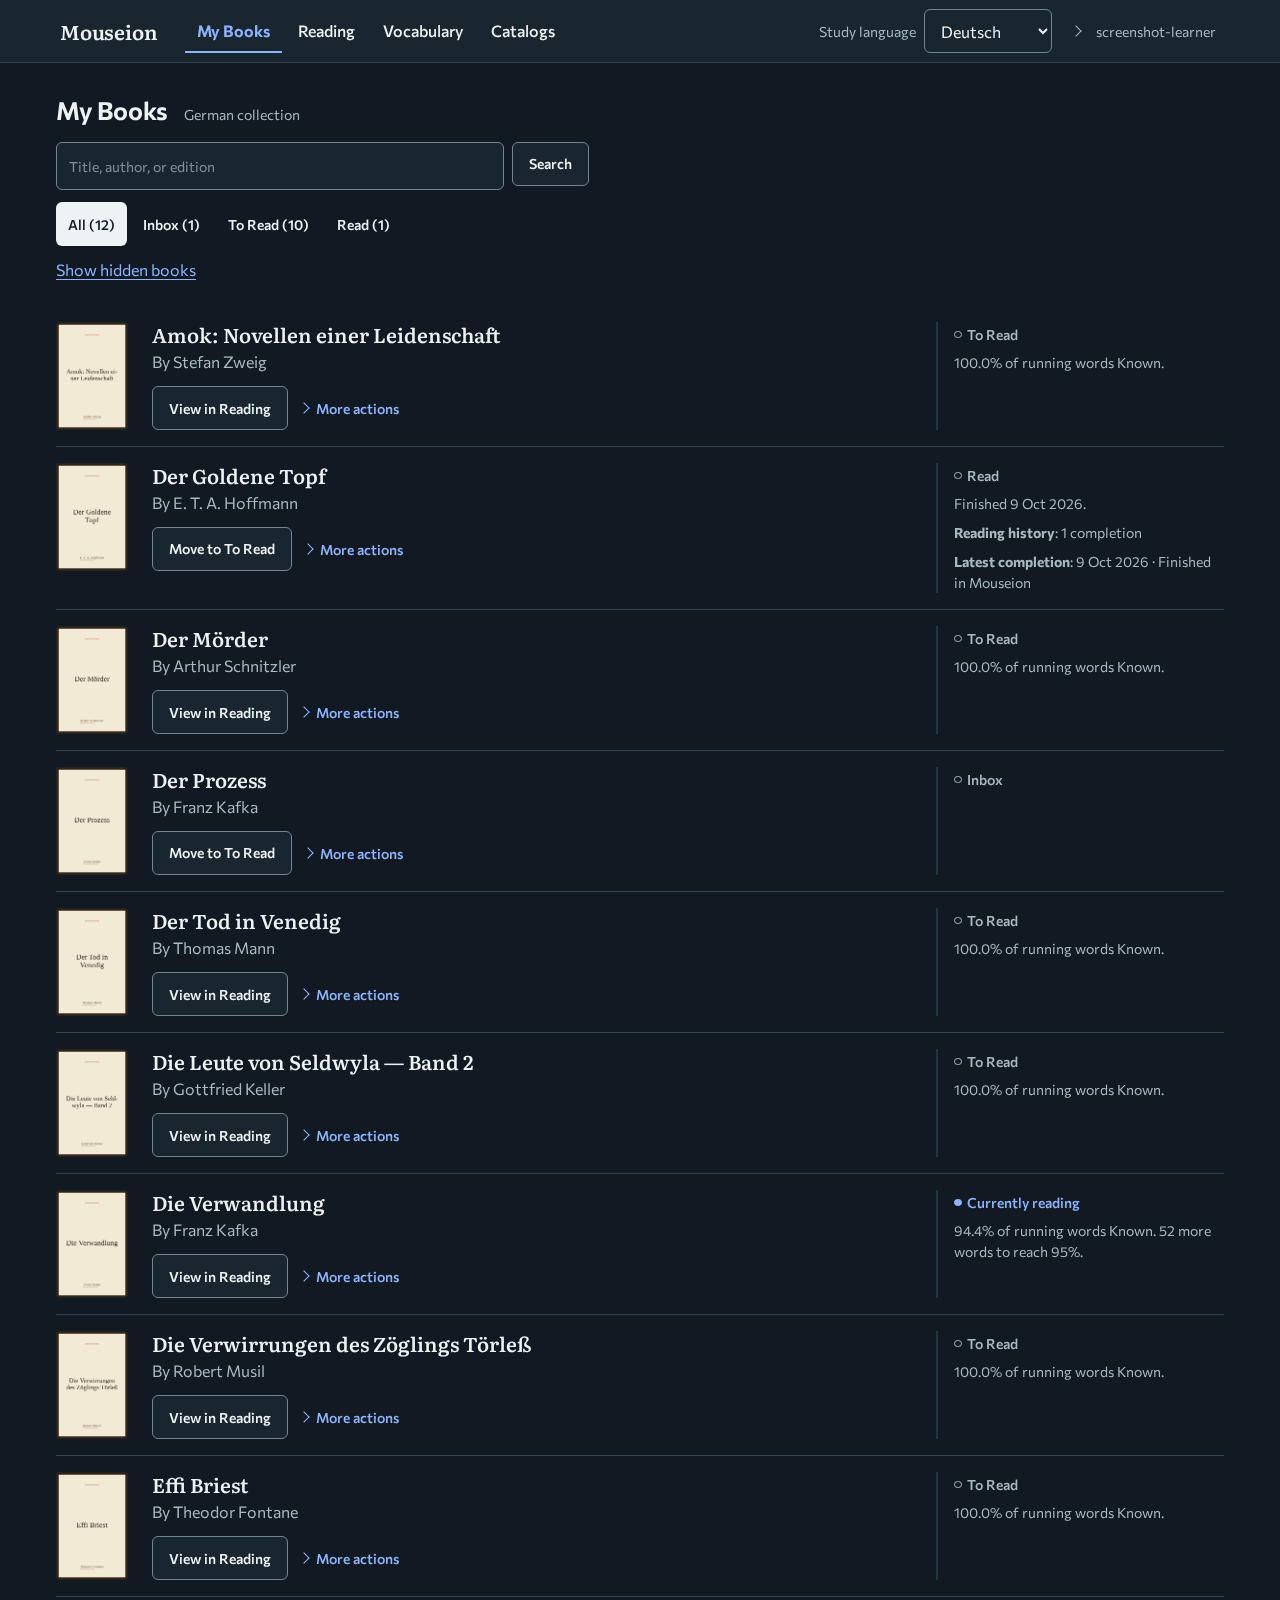
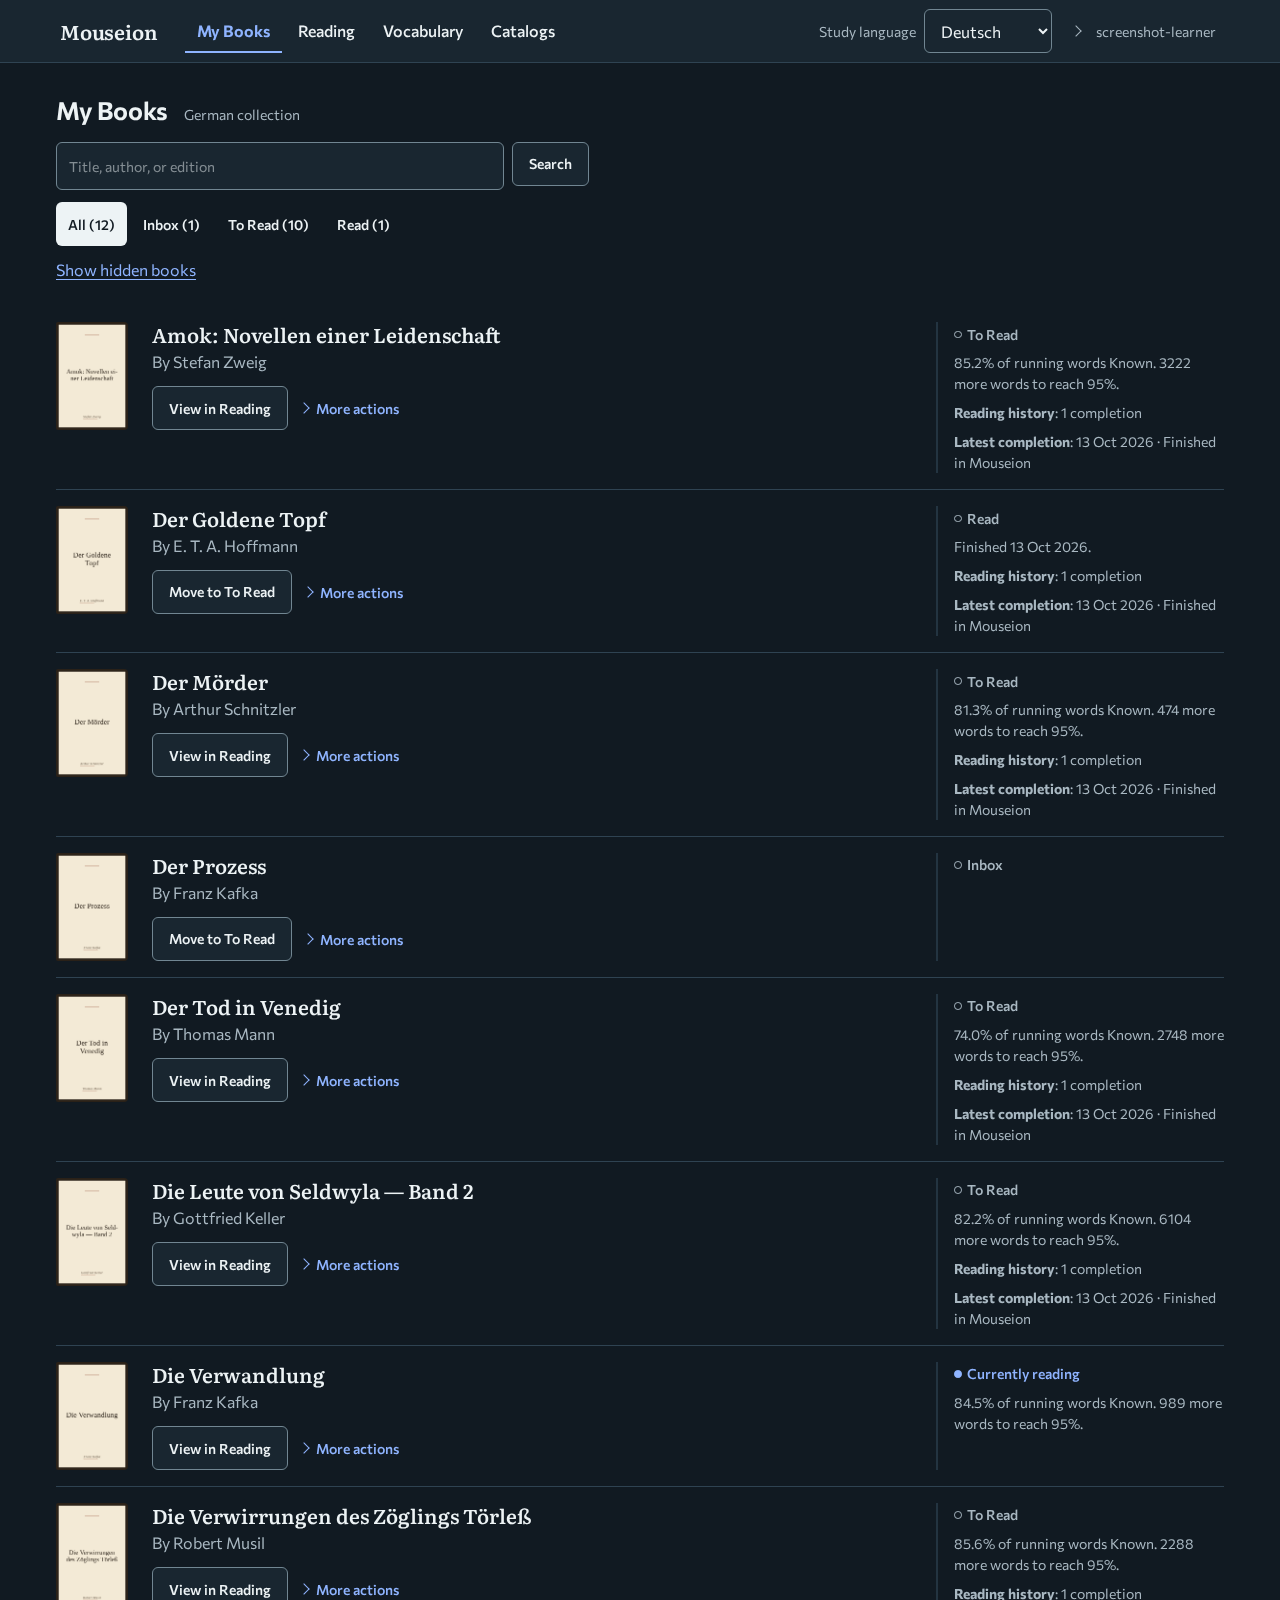
feat(e2e): seed the screenshot Known-vocabulary baseline by finishing readings (#2008)
Known vocabulary now comes only from Reading completion (ADR 0092). The
screenshot workflow no longer derives a lemma list from the stack database and
uploads it through /vocabulary/import; it finishes a reading of every baseline
Book instead, returning each finished To Read Book to To Read with Read again.
Known identities from completion are exact, so the target's coverage band is
retuned from the retired lemma-wide import's 94-98% to the measured 82-88%.

diff --git a/e2e/screenshot/my-books.spec.ts b/e2e/screenshot/my-books.spec.ts
@@ -1,14 +1,14 @@
 // Learner workflow for the documentation screenshots. It creates the first
 // account, adds the static catalog, waits for catalog sync and covers, moves the
-// scenario Books to To Read and waits for each analysis, imports a Known
-// vocabulary baseline derived from the other Books (known-vocabulary.ts), reads
-// one Book to completion, starts the target Book, and then captures the Reading
-// view and My Books in light and dark schemes, then looks up the configured
-// lemma and captures the Concordance and one sentence Study. Every input comes from the environment set by run.mjs, and
-// every wait is bounded and reports the Book or step that stalled.
+// scenario Books to To Read and waits for each analysis, seeds the Known
+// vocabulary baseline by finishing a reading of every baseline Book (ADR 0092's
+// only source of Known vocabulary), starts the target Book, and then captures
+// the Reading view and My Books in light and dark schemes, then looks up the
+// configured lemma and captures the Concordance and one sentence Study. Every
+// input comes from the environment set by run.mjs, and every wait is bounded and
+// reports the Book or step that stalled.
 import { expect, test, type Page } from '@playwright/test';
 import { readFileSync } from 'node:fs';
-import { COVERAGE_MAX_PERCENT, COVERAGE_MIN_PERCENT, deriveBaseline, type Baseline } from './known-vocabulary';
 
 type Journey = 'inbox' | 'to-read' | 'read' | 'current';
 
@@ -41,13 +41,22 @@ const myBooksDarkOutputPath = requiredEnv('MOUSEION_SCREENSHOT_DARK_OUTPUT');
 const readingOutputPath = requiredEnv('MOUSEION_SCREENSHOT_READING_OUTPUT');
 const concordanceOutputPath = requiredEnv('MOUSEION_SCREENSHOT_CONCORDANCE_OUTPUT');
 const studyOutputPath = requiredEnv('MOUSEION_SCREENSHOT_STUDY_OUTPUT');
-// The docker compose arguments that address the isolated stack, as a JSON array.
-const composeArgs = JSON.parse(requiredEnv('MOUSEION_SCREENSHOT_COMPOSE_ARGS')) as string[];
 const manifest = JSON.parse(readFileSync(requiredEnv('MOUSEION_SCREENSHOT_MANIFEST'), 'utf8')) as {
   books: ManifestBook[];
   concordance: ManifestConcordance;
 };
 const { concordance } = manifest;
+
+// Known vocabulary comes only from Reading completion (ADR 0092). The scenario
+// finishes every baseline Book (every analyzed Book except the target) and
+// returns the finished To Read Books to To Read with Read again. Known
+// identities from completion are exact (canonical lemma plus analyzed part of
+// speech), unlike the retired lemma-wide import, so the pinned corpus covers
+// about 84.5% of the target's running content words (deterministic: the books
+// and the Stanza analysis are pinned). The band is a regression guard around
+// that value; it no longer assumes the 94–98% the lemma-wide import produced.
+const COVERAGE_MIN_PERCENT = 82;
+const COVERAGE_MAX_PERCENT = 88;
 
 const SYNC_TIMEOUT_MS = 5 * 60_000;
 const COVER_TIMEOUT_MS = 6 * 60_000;
@@ -55,7 +64,6 @@ const COVER_TIMEOUT_MS = 6 * 60_000;
 // in parallel, so this bounds the whole To Read analysis set.
 const ANALYSIS_TIMEOUT_MS = 30 * 60_000;
 const COUNTS_TIMEOUT_MS = 5 * 60_000;
-const IMPORT_TIMEOUT_MS = 5 * 60_000;
 const MOVE_TIMEOUT_MS = 60_000;
 const POLL_INTERVAL_MS = 5_000;
 const MAX_SCREENSHOT_HEIGHT = 1600;
@@ -214,22 +222,6 @@ async function waitForAnalyses(page: Page, books: ManifestBook[]): Promise<void>
   expect(stalled, 'To Read scenario books whose analysis did not complete').toEqual([]);
 }
 
-// Imports the lemma list through the vocabulary interface and waits for the
-// River job to report its result on the page.
-async function importKnownVocabulary(page: Page, text: string): Promise<void> {
-  await page.goto('/vocabulary/import');
-  await page.locator('#known-vocabulary-file').setInputFiles({
-    name: 'known-vocabulary.txt',
-    mimeType: 'text/plain',
-    buffer: Buffer.from(text, 'utf8'),
-  });
-  await page.getByRole('button', { name: 'Import known vocabulary' }).click();
-  await expect(page.locator('#vocabulary-results'), 'the Known-vocabulary import completes').toContainText(
-    /Import complete\.|partial rejection/,
-    { timeout: IMPORT_TIMEOUT_MS },
-  );
-}
-
 // The chooser shows each To Read Book's Known coverage. The Current reading is
 // measured here, before it is started, because the app stops showing coverage
 // for the Book once it is the Current reading.
@@ -253,15 +245,44 @@ async function measureCoverage(page: Page, book: ManifestBook): Promise<number> 
   return percent;
 }
 
-// Derives the baseline from the other analyzed Books, imports it, and fails the
-// run unless the target's measured coverage is inside the 94–98% band.
-async function establishKnownVocabulary(page: Page, target: ManifestBook): Promise<void> {
-  const baseline: Baseline = await deriveBaseline(composeArgs, target.title);
-  await importKnownVocabulary(page, baseline.text);
+// Read again returns a finished Book to To Read without starting it, so a
+// baseline Book that the manifest keeps in To Read stays there. Its completion
+// history and the Known vocabulary it accepted are unchanged.
+async function readAgain(page: Page, book: ManifestBook): Promise<void> {
+  await page.goto('/library');
+  const item = myBookItem(page, book);
+  await item.locator('details.more-actions > summary').click();
+  await item.getByRole('button', { name: 'Read again' }).click();
+  await pollUntil(
+    async () => (await workflowLabel(page, book)) === WORKFLOW_LABEL['to-read'],
+    MOVE_TIMEOUT_MS,
+    `${book.title} to return to To Read after finishing`,
+  );
+}
+
+// Seeds Known vocabulary the only way ADR 0092 allows: by finishing readings.
+// Every baseline Book (every analyzed Book except the target) is finished in
+// manifest order, so My Books still shows the `read` Books as Read; each
+// finished `to-read` Book is returned to To Read with Read again. The target's
+// coverage is measured once, before it is started, and must land inside
+// COVERAGE_MIN_PERCENT–COVERAGE_MAX_PERCENT, or the run fails with the finished
+// readings and the measured value.
+async function seedKnownVocabulary(page: Page, target: ManifestBook): Promise<void> {
+  const finished: string[] = [];
+
+  // Every Book the scenario analyzes (everything but Inbox) except the target.
+  const baseline = manifest.books.filter(book => book.journey !== 'inbox' && book.title !== target.title);
+  for (const book of baseline) {
+    await startReading(page, book);
+    await finishReading(page, book);
+    if (book.journey === 'to-read') await readAgain(page, book);
+    finished.push(book.title);
+  }
+
   const measured = await measureCoverage(page, target);
   const summary =
-    `cut-off: ${baseline.lemmas.length} lemmas (rank ${baseline.rank}, frequency ≥ ${baseline.frequency}); ` +
-    `${target.title} Known coverage ${measured.toFixed(1)}% (estimated ${baseline.estimatedCoverage.toFixed(1)}%)`;
+    `${finished.length} reading(s) finished (${finished.join(', ')}); ` +
+    `${target.title} Known coverage ${measured.toFixed(1)}%`;
   console.log(`Known vocabulary baseline: ${summary}`);
   if (measured < COVERAGE_MIN_PERCENT || measured > COVERAGE_MAX_PERCENT) {
     throw new Error(`Known coverage of ${target.title} is outside ${COVERAGE_MIN_PERCENT}–${COVERAGE_MAX_PERCENT}%: ${summary}`);
@@ -437,8 +458,7 @@ async function captureMyBooks(page: Page, colorScheme: ColorScheme, outputPath: 
   await settleAndCapture(page, outputPath, colorScheme);
 }
 
-test('the scenario Books are analyzed, one is read to completion, and Reading, My Books, Concordance, and Study are captured', async ({ page }) => {
-  const [readBook] = booksWithJourney('read');
+test('the scenario Books are analyzed, readings seed Known vocabulary, and Reading, My Books, Concordance, and Study are captured', async ({ page }) => {
   const [currentBook] = booksWithJourney('current');
   expect(booksWithJourney('read'), 'manifest has exactly one read Book').toHaveLength(1);
   expect(booksWithJourney('current'), 'manifest has exactly one current Book').toHaveLength(1);
@@ -455,10 +475,8 @@ test('the scenario Books are analyzed, one is read to completion, and Reading, M
   }
   await waitForAnalyses(page, toRead);
 
-  await establishKnownVocabulary(page, currentBook);
+  await seedKnownVocabulary(page, currentBook);
 
-  await startReading(page, readBook);
-  await finishReading(page, readBook);
   await startReading(page, currentBook);
   await assertBookVocabulary(page, currentBook);
   await expect(page.locator('#primary-goal-section').getByRole('heading', { level: 1 })).toContainText(currentBook.title);

diff --git a/e2e/README.md b/e2e/README.md
@@ -173,24 +173,29 @@ The procedure, durations, and clean-up are in the
 [development guide](../doc/development.md#regenerating-screenshots).
 
 - The learner workflow moves every scenario Book except the one marked `inbox`
-  to To Read, waits for each analysis through Reading's chooser, starts and
-  finishes the `read` Book, starts the `current` Book, and asserts its title and
-  a non-empty Book vocabulary table before capturing Reading. My Books is then
-  captured twice, in the light and dark color schemes, and each capture asserts
-  the Inbox, To Read, Currently reading, and Read buckets first.
+  to To Read, waits for each analysis through Reading's chooser, then seeds Known
+  vocabulary the only way [ADR 0092](../doc/adr/0092-retire-known-vocabulary-import.md)
+  allows: by finishing readings. It finishes every baseline Book (every analyzed
+  Book except the `current` one) in manifest order, returning each finished To
+  Read Book to To Read with **Read again**. It then starts the `current` Book and
+  asserts its title and a non-empty Book vocabulary table before capturing
+  Reading. My Books is then captured twice, in the light and dark color schemes,
+  and each capture asserts the Inbox, To Read, Currently reading, and Read
+  buckets first.
 - The Concordance lookup types the lemma configured in the `concordance` block of
   `screenshot/manifest.json` into the Concordance form. The capture fails unless
   the analyzed corpus yields at least `minimumOccurrences` lines from at least
   `minimumBooks` Books. The sentence Study opens the first result, within the
   first page, whose identified token has the configured part of speech, and
   checks its lemma and dependency evidence.
-- Before the `current` Book starts, the workflow derives a Known-vocabulary
-  baseline from the analyzed Books other than it: their lemmas ranked by
-  frequency, read-only from the stack's database, cut at the rank where the
-  `current` Book's Known coverage reaches about 96%. If no rank reaches 96%, all
-  of them are used. The list is imported through Vocabulary, and the run fails
-  unless the measured coverage is within 94–98%. The cut-off and measured
-  coverage are printed.
+- The run fails unless the `current` Book's measured Known coverage is within
+  82–88%. Finishing every baseline Book covers about 84.5% of its running content
+  words (the books and the Stanza analysis are pinned, so this is deterministic):
+  Known identities from Reading completion are exact (canonical lemma plus
+  analyzed part of speech), unlike the retired lemma-wide import, so the band was
+  retuned from the import's 94–98%. The finished readings and the measured
+  coverage are printed. No lemma file is uploaded and no Known-vocabulary row is
+  written directly: finishing a reading is the only source of Known vocabulary.
 - Each wait is bounded and names the Book or step that stalled. Analysis of the
   full set is bounded at 30 minutes; the Playwright test budget is 75 minutes.
 - Source books are pinned Project Gutenberg editions in

diff --git a/doc/development.md b/doc/development.md
@@ -233,8 +233,9 @@ Run it from the repository root:
 make screenshot-my-books
 ```
 
-The run prints the Known-vocabulary cut-off and the coverage it measured. Record
-that output in any pull request that changes the committed images.
+The run prints the readings it finished to seed Known vocabulary and the
+coverage it measured. Record that output in any pull request that changes the
+committed images.
 
 Duration, measured on the maintainer's workstation (16 cores, 31 GB RAM):
 
